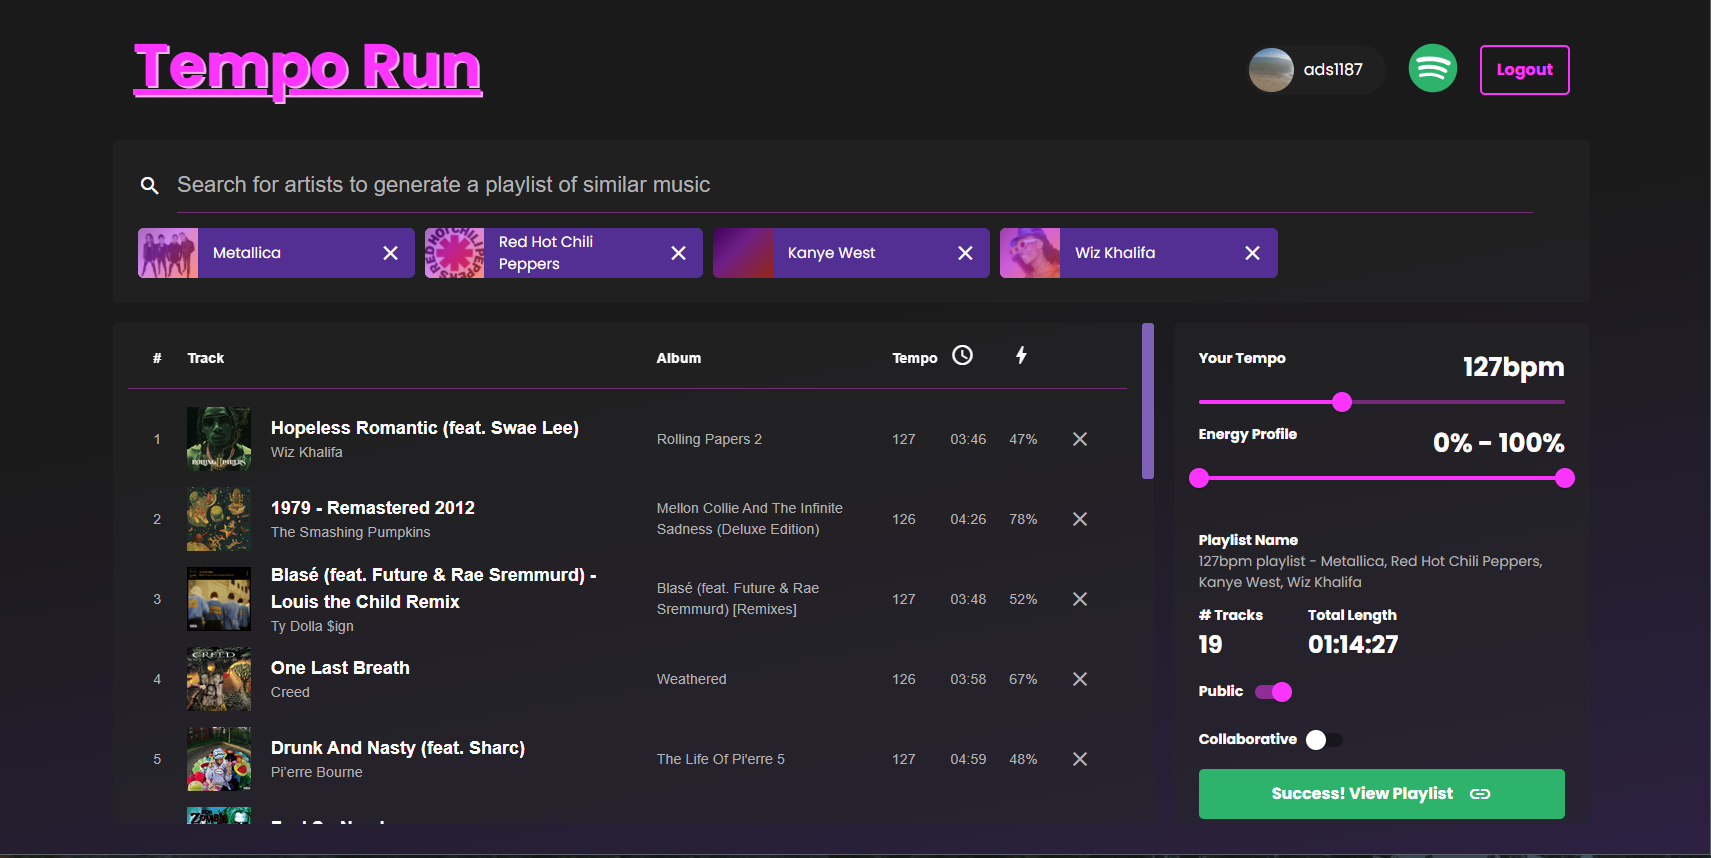
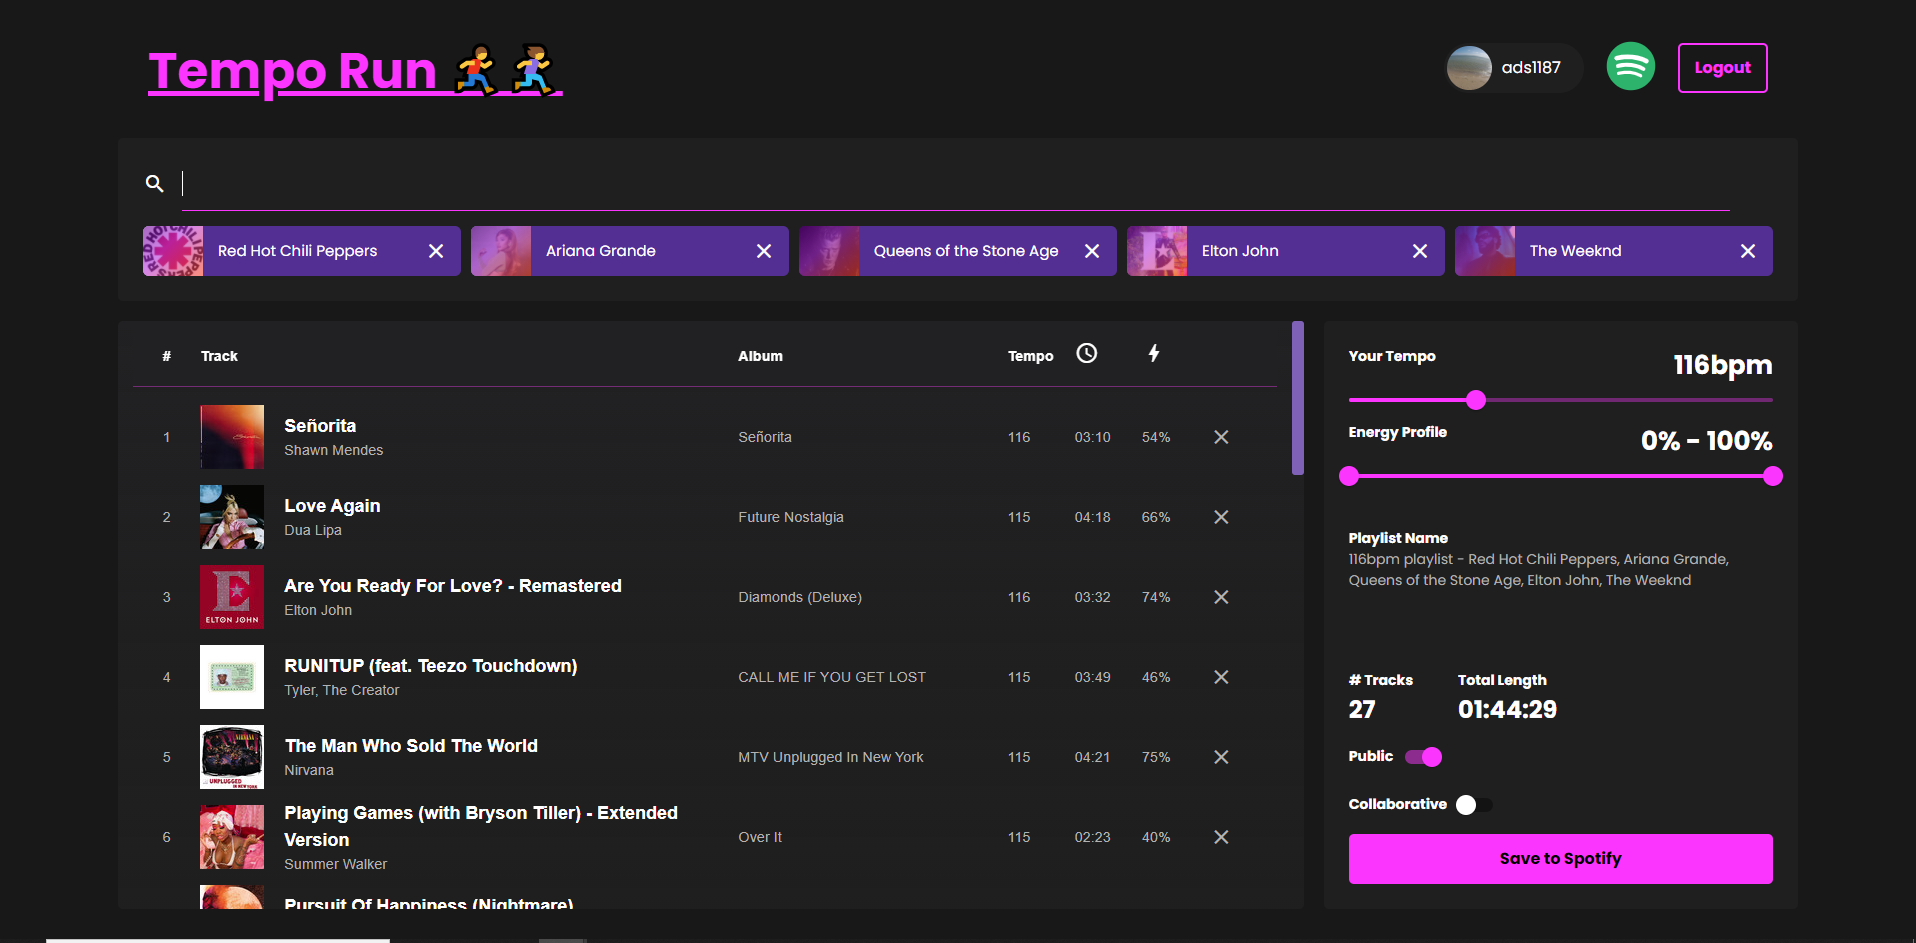
fixing styles again

diff --git a/client/src/styles/components/Playlist.module.scss b/client/src/styles/components/Playlist.module.scss
@@ -9,7 +9,7 @@
   align-items: left;
   color: white;
   padding: 0 15px 10px 15px;
-  background-color: $card-dark-grey;
+  background: $card-dark-grey;
   // box-shadow: 2px 2px 5px $pink-flamingo;
   border-radius: 5px;
 
@@ -19,7 +19,7 @@
 
   &::-webkit-scrollbar {
     /* for Chrome, Safari, and Opera */
-    width: 12px;
+    width: 7px;
 
     background: transparent;
     border-radius: 5px;
@@ -32,7 +32,7 @@
 
   /* Handle */
   &::-webkit-scrollbar-thumb {
-    background: $purple-highlight;
+    background: rgba(70, 70, 70, 0.438);
     border-radius: 3px;
   }
 
@@ -77,7 +77,7 @@
       width: 50px;
       position: sticky;
       top: 0;
-      background-color: transparent;
+      background-color: $card-dark-grey;
       cursor: pointer;
 
       span:nth-of-type(2) {
@@ -88,7 +88,7 @@
     thead tr {
       text-align: left;
       padding: 20px;
-      border-bottom: 1px solid $purple;
+      border-bottom: 1px solid $purple-highlight;
     }
 
     .id {

diff --git a/client/src/components/Layout.js b/client/src/components/Layout.js
@@ -14,7 +14,7 @@ export default function Layout({ code, spotifyApi, user }) {
   const [playlist, setPlaylist] = useState([]);
   const [tempo, setTempo] = useState(116); //80 to 200
   const [duration, setDuration] = useState(1800); //in seconds
-  const [energy, setEnergy] = useState([50, 90]); //0 to 100
+  const [energy, setEnergy] = useState([0, 100]); //0 to 100
   const [playlistName, setPlaylistName] = useState("116bpm playlist");
   const [publicPlaylist, setPublicPlaylist] = useState(true);
   const [collaborativePlaylist, setcollaborativePlaylist] = useState(false);

diff --git a/client/src/styles/components/Navbar.module.scss b/client/src/styles/components/Navbar.module.scss
@@ -8,12 +8,21 @@
   justify-content: space-between;
   align-items: flex-end;
   padding: 20px 140px;
-  height: 130px;
+  height: 140px;
 
   .logo {
-    font-size: 60px;
+    color: $white;
+    font-size: 70px;
     text-decoration: underline;
-    text-shadow: 0.04em 0.04em rgb(255, 173, 248);
+    // text-shadow: 0.04em 0.04em rgb(233, 188, 253);
+    span {
+      font-size: 70px;
+      color: $pink-flamingo;
+      // margin-right: 5px;
+      transform: scale(-1, 1) rotate(20deg);
+      position: relative;
+      bottom: -15px;
+    }
   }
 
   .navItems {

diff --git a/client/src/styles/base/_variables.scss b/client/src/styles/base/_variables.scss
@@ -3,11 +3,12 @@
 //Colors
 $pink-flamingo: rgb(255, 60, 255);
 $spotify-green: #19b26b;
-$card-dark-grey: rgba(37, 37, 37, 0.5);
+$card-dark-grey: rgba(44, 44, 44, 1);
 $blue-tint: rgba(82, 46, 148, 1);
 $purple: rgb(119, 46, 119);
 $grey-text: rgb(179, 179, 179);
-$purple-highlight: rgba(127, 97, 184, 1);
+$purple-highlight: rgb(119, 52, 119);
+$white: #eeeeee;
 $login-background: linear-gradient(
   166deg,
   rgba(121, 100, 129, 1) 0%,

diff --git a/client/src/styles/components/Seed.module.scss b/client/src/styles/components/Seed.module.scss
@@ -9,14 +9,14 @@
   min-height: 50px;
   margin-top: 15px;
   border-radius: 6px;
-  background-color: #522e94;
+  background-color: #942e94;
   overflow: hidden;
   transition: all 0.15s ease-in-out;
 
   &:hover {
     // transform: scale(1.01);
     // box-shadow: 1px 1px 10px #5595d4;
-    background-color: rgb(104, 64, 179);
+    background-color: #b439b4;
   }
 
   .imageContainer {

diff --git a/client/src/styles/base/_global.scss b/client/src/styles/base/_global.scss
@@ -3,12 +3,7 @@ body {
   -webkit-font-smoothing: antialiased;
   -moz-osx-font-smoothing: grayscale;
   font-family: "Poppins", sans-serif;
-  background: linear-gradient(
-    170deg,
-    rgba(26, 26, 26, 1) 0%,
-    rgba(26, 26, 26, 1) 40%,
-    rgb(44, 33, 65) 100%
-  );
+  background: rgb(34, 34, 34);
 }
 
 /* Box sizing rules */

diff --git a/client/src/components/SearchBar.js b/client/src/components/SearchBar.js
@@ -52,7 +52,7 @@ export default function SearchBar({ spotifyApi, setSeedList, seedList }) {
   };
 
   const inputProps = {
-    placeholder: "Search for artists to generate a playlist of similar music",
+    placeholder: "Search for artists to generate a new playlist",
     autoComplete: "off",
     value: query,
     name: "query",

diff --git a/client/src/styles/components/Modal.module.scss b/client/src/styles/components/Modal.module.scss
@@ -16,7 +16,7 @@
   text-align: center;
   gap: 15px;
 
-  background-color: $card-dark-grey;
+  background-color: rgba(65, 65, 65, 0.39);
 
   h1 {
     font-size: 4em;
@@ -30,7 +30,7 @@
   }
 
   p {
-    color: $grey-text;
+    color: rgb(245, 245, 245);
     font-size: 1.4em;
     margin-bottom: 20px;
   }

diff --git a/client/src/components/Navbar.js b/client/src/components/Navbar.js
@@ -31,6 +31,7 @@ export default function Navbar({ code, user }) {
         animate="animate"
         exit="exit"
       >
+        <span className="material-icons">timer</span>
         Tempo Run
       </motion.h1>
       <motion.div

diff --git a/client/src/styles/components/Layout.module.scss b/client/src/styles/components/Layout.module.scss
@@ -3,7 +3,7 @@
 @import "../base/typography";
 
 .main {
-  height: calc(100vh - 130px);
+  height: calc(100vh - 140px);
   width: 100%;
   display: grid;
   grid-template-columns: 5fr 2fr;
